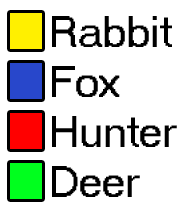
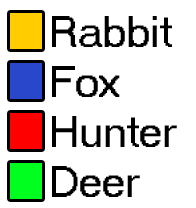
Legenda update size en color

Changed region(s): [[0.0306, 0.0577, 0.2143, 0.2596]]

diff --git a/view/SimulatorView.java b/view/SimulatorView.java
@@ -80,8 +80,12 @@ public class SimulatorView extends JFrame
         JButton stap100 = new JButton("100 Stappen");
         JButton reset = new JButton("Reset");
         JButton ziek = new JButton("Release HELL!");
-        ImageIcon legenda = new ImageIcon(SimulatorView.class.getResource("/legenda.png"));
         
+        // Maak de leggenda en resize deze 
+        ImageIcon legenda_img = new ImageIcon(SimulatorView.class.getResource("/legenda.png"));
+        Image img_legenda = legenda_img.getImage();
+        Image newimg = img_legenda.getScaledInstance(100, 110,  java.awt.Image.SCALE_SMOOTH);
+        ImageIcon legenda = new ImageIcon(newimg);
         
         
         
